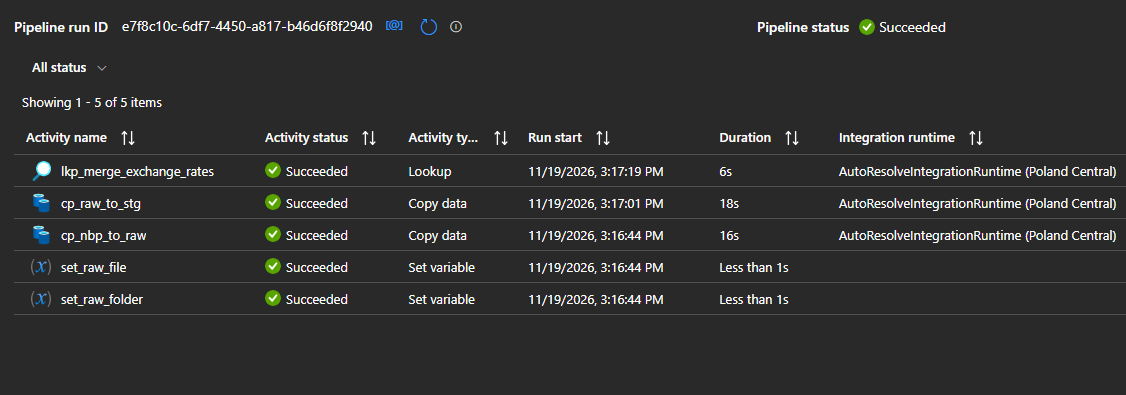
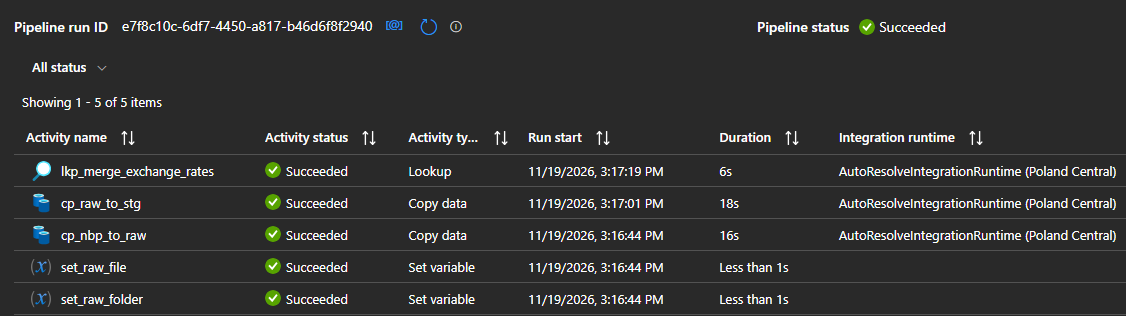
Label and crop screenshots in README

diff --git a/README.md b/README.md
@@ -92,6 +92,9 @@ so there are no keys or passwords in the repo.
    0 inserted, 0 updated, and staging still holds 160 rows (truncated before load).
 
 ![Debug run](docs/pl_nbp_ingest_debug_output.png)
+
+First run (left) and rerun of the same window (right):
+
 ![Merge result](docs/pl_nbp_ingest_lookup_output.png)
 ![Rerun result](docs/pl_nbp_ingest_rerun_output.png)
 
